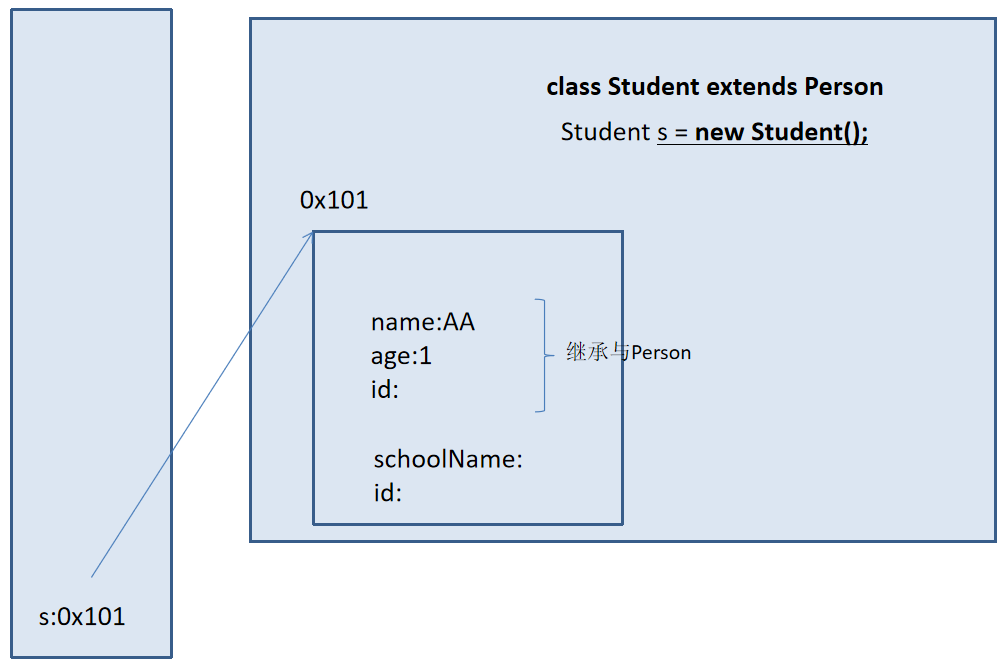
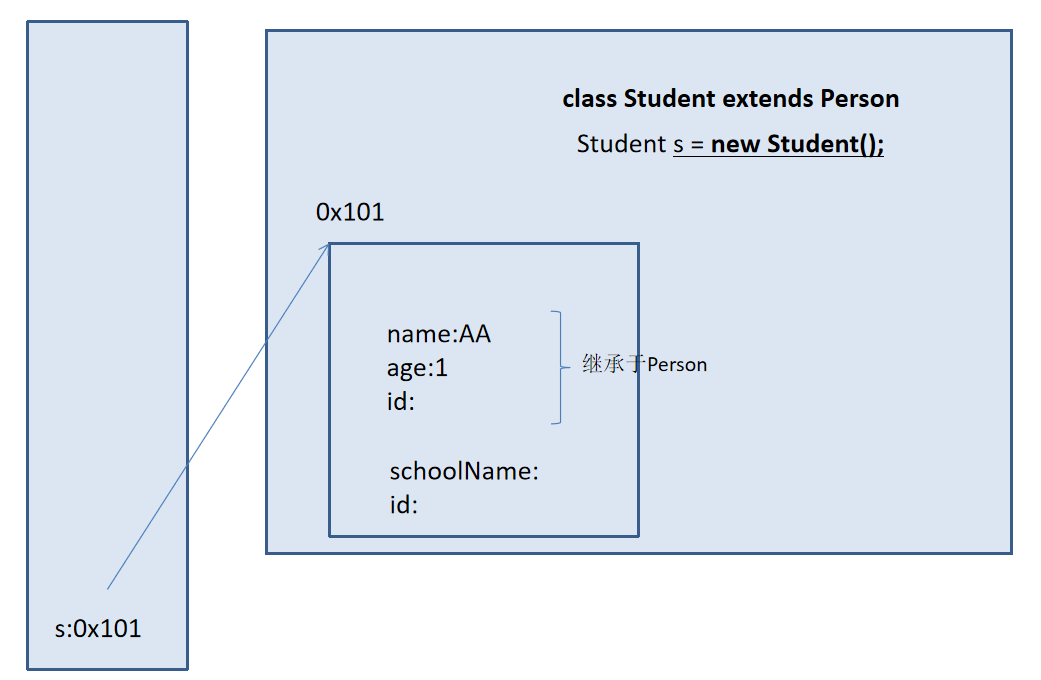
update README.md, day08 java 高级特性1

diff --git a/day08/README.md b/day08/README.md
@@ -41,7 +41,7 @@ super: 可以用来修饰属性、方法、构造器
 本类或父类中相应的构造其，且必须放在构造其的第一行
 * 如果子类构造其中没有显示调用父类或本类的构造器，并且父类中也没有无参的构造器，则编译出错
 
-# this 和 super的区别
+# this和super的区别
 区别 |this |super
 :--- | --- |---
 访问属性|访问本类中的属性，如果本类中没有此属性则从父类中继续查找 |访问父类中的属性(可继续找到跟类)
@@ -50,10 +50,10 @@ super: 可以用来修饰属性、方法、构造器
 特殊 |表示当前对象 |无此概念 
 
 
-super
+## super父类与子类的内存结构
 ![super](./images/super.png)
 
-子类对象实例化的过程
+## 子类对象实例化的过程及内存结构
 ![子类对象实例化的过程](./images/子类实例化过程.png)
 
 
@@ -255,7 +255,7 @@ class Cat extends Animal {
 ```
 </details>
 
-# instanceof 操作符
+# instanceof操作符
 x instanceof A  
 检验对象实体x 是否为类A的对象，返回值为boolean类型。是返回true，不是返回false   
 可以看上面的例子
@@ -283,7 +283,7 @@ x instanceof A
     * 无继承关系的引用类型间的转换是非法的
     * 在造型之前可以使用instanceof操作符判断该对象的类型，从而决定是否要造型
     
-类的造型(类强制转换)
+类的转型(类强制转换)
 ![类强制转换](./images/造型(类强制转换).png)
 
 
@@ -332,7 +332,7 @@ public final void wait(long timeoutMillis, int nanos) throws InterruptedExceptio
 protected void finalize() throws Throwable |普通 |
 
 
-# == 操作符与equals方法
+# ==操作符与equals方法
 * ==
     * 基本类型比较值：只要两个变量的值相等，返回true
     ```

diff --git a/README.md b/README.md
@@ -49,11 +49,24 @@ JAVA Study
 
 
 <details>
-<summary>高级类特性1</summary>
+<summary>day08_高级类特性1</summary>
 
-* [高级类特性1](./day08/README.md "day08")
-
-
+* [day08_高级类特性1](./day08/README.md "day08")
+    * [四种访问权限修饰符](./day08/README.md#四种访问权限修饰符)
+    * [super关键字](./day08/README.md#super关键字)
+        * [调用父类的构造器](./day08/README.md#调用父类的构造器)
+    * [this和super的区别](./day08/README.md#this和super的区别)
+        * [super父类与子类的内存结构](./day08/README.md#super父类与子类的内存结构)
+        * [子类对象实例化的过程及内存结构](./day08/README.md#子类对象实例化的过程及内存结构)
+    * [面向对象特征之三：多态性](./day08/README.md#面向对象特征之三多态性)
+        * [虚拟方法调用(Virtual method invocation)](./day08/README.md#虚拟方法调用Virtual-method-invocation)
+        * [子类继承父类](./day08/README.md#子类继承父类)
+    * [instanceof操作符](./day08/README.md#instanceof操作符)
+    * [对象类型转换(Casting)](./day08/README.md#对象类型转换Casting)
+    * [Object类](./day08/README.md#Object类)
+        * [Object类中的主要方法](./day08/README.md#Object类中的主要方法)
+    * [==操作符与equals方法](./day08/README.md#==操作符与equals方法)
+    
 </details>
 
 
